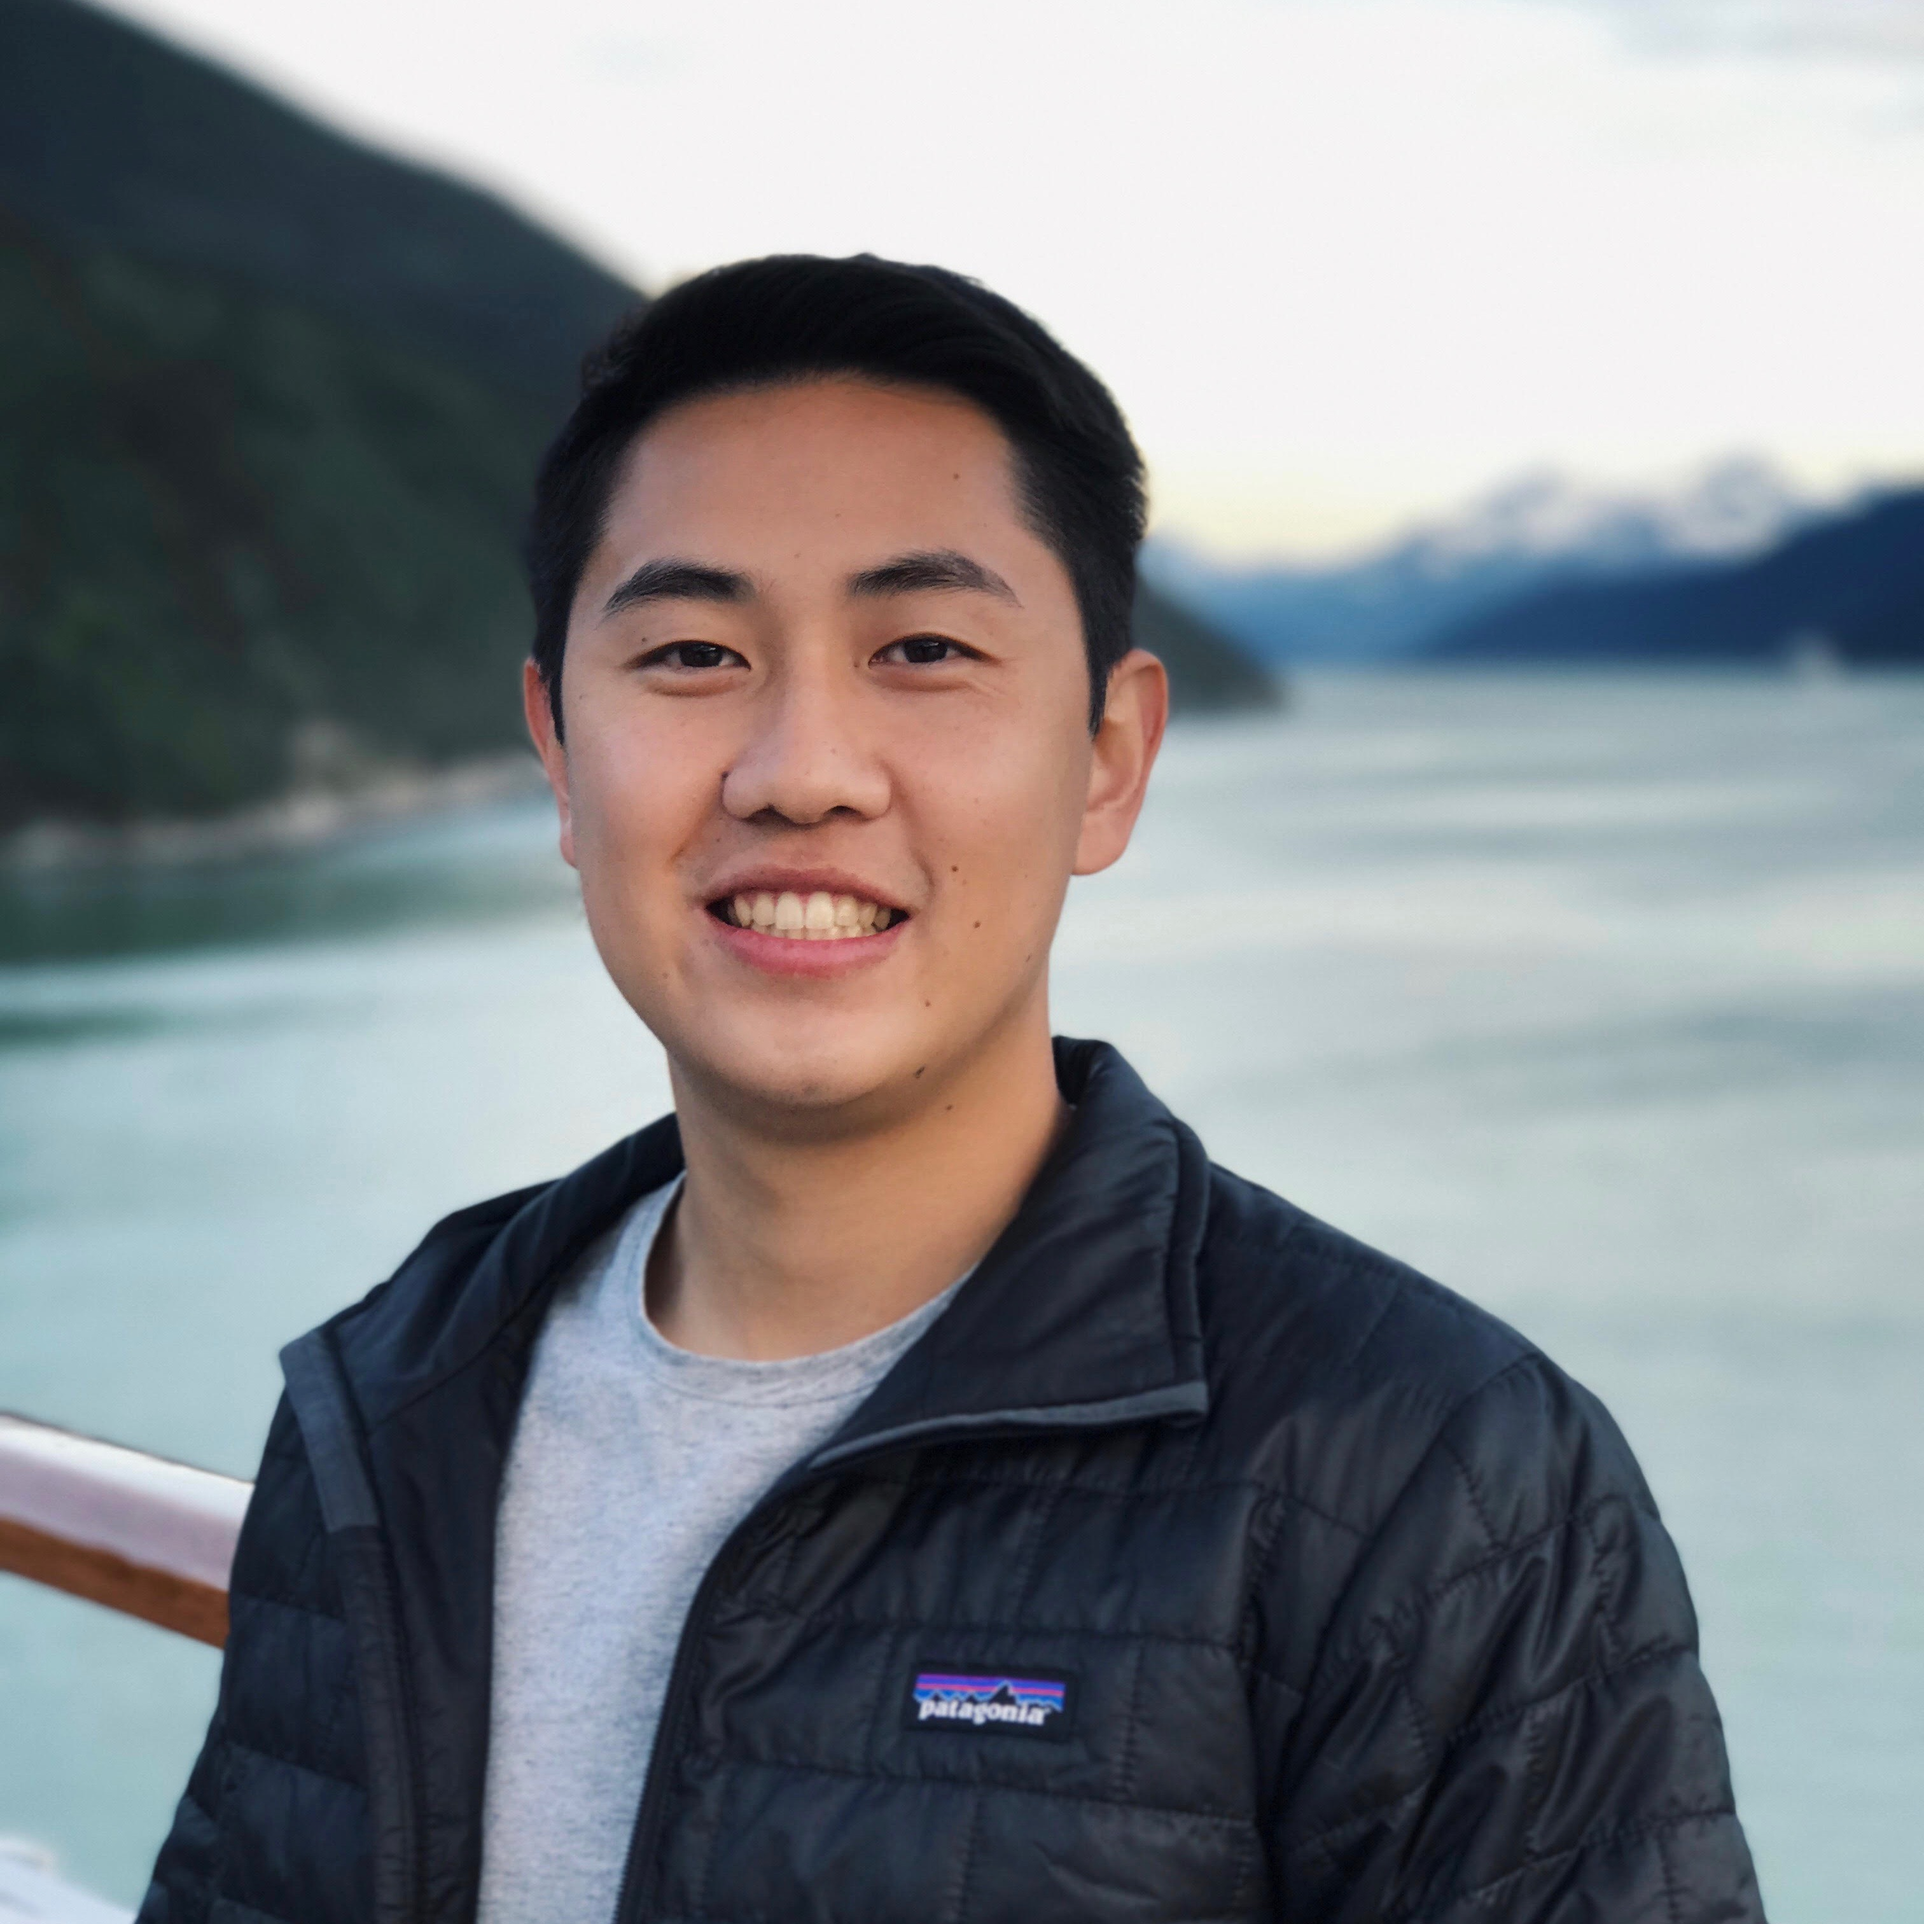
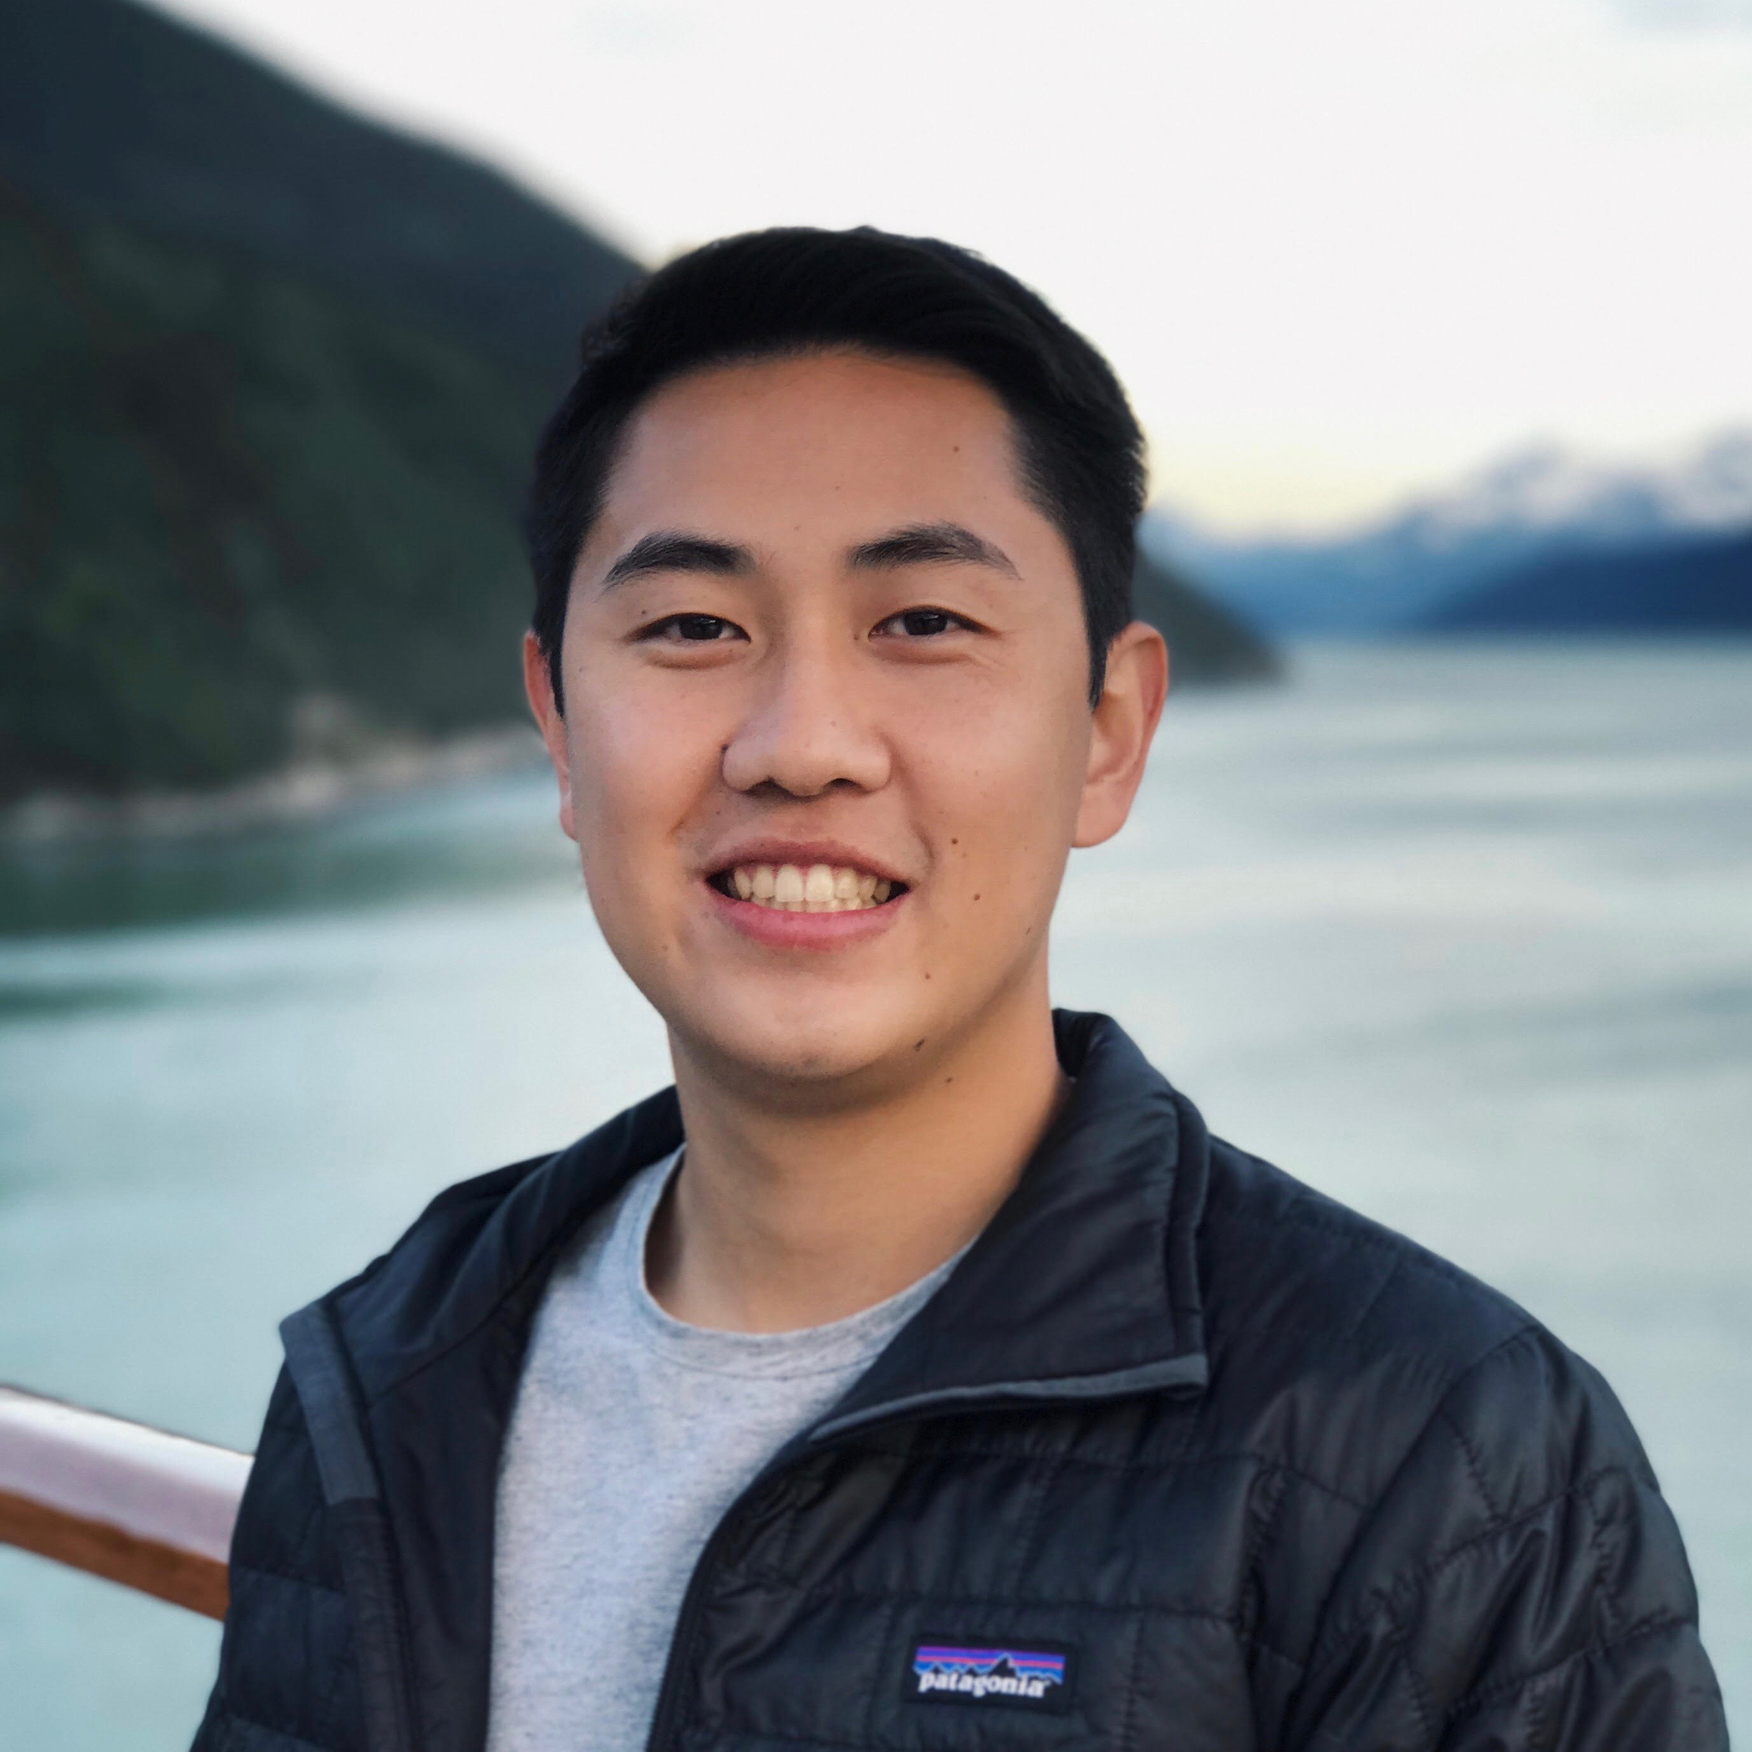
mobile

diff --git a/index.html b/index.html
@@ -70,10 +70,10 @@
 
             <!-- Portrait -->
             <div class="portrait hide-on-med-and-down">
-                <img src="images/full images/Alaska-Centered.jpg" class="circle responsive-img" style="height: 300px;" align="middle">
+                <img src="images/full images/Alaska.jpg" class="circle responsive-img" style="height: 300px;" align="middle">
             </div>
             <div class="portrait hide-on-large-only">
-                <img src="images/full images/Alaska-Centered.jpg" class="circle responsive-img" style="height: 225px;" align="middle"> 
+                <img src="images/full images/Alaska.jpg" class="circle responsive-img" style="height: 225px;" align="middle"> 
             </div>
 
             <!-- Name and Position -->

diff --git a/css/projects.css b/css/projects.css
@@ -96,7 +96,7 @@ nav ul li:hover {
 }
 
 a {
-    color: var(--teal);
+    color: var(--orange);
 }
 
 /* Materialboxed Screenshots */
